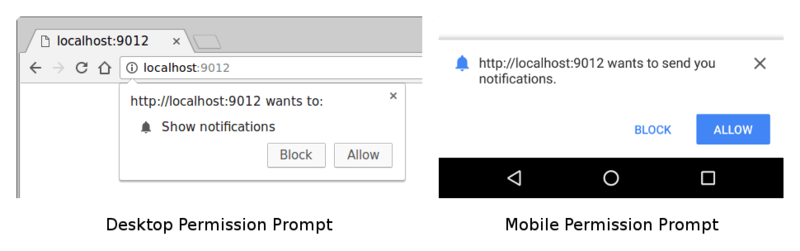
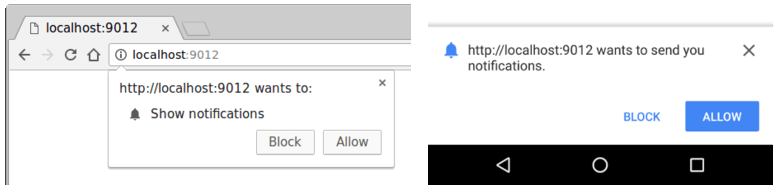
nowe grafiki

diff --git a/src/Presentation.tsx b/src/Presentation.tsx
@@ -1,15 +1,15 @@
 /* eslint-disable no-undef */
 import React, { useState } from 'react';
 import {
-  Code, Deck, Heading, Image, List, ListItem, Slide, Text, CodePane,
+  Code, Deck, Heading, Image, List, ListItem, Slide, Text,
 } from 'spectacle';
 // eslint-disable-next-line import/no-unresolved
 import createTheme from 'spectacle/lib/themes/default';
 
 const images = {
   cover: 'cover.jpg',
+  whatIsWebPush: 'what-is-web-push2.gif',
   permissionPrompt: 'permission-prompt.png',
-  whatIsWebPush: 'what-is-web-push.gif',
   isItFree: 'is-it-free.png',
   isItSafe: 'security.svg',
   action: 'action.png',
@@ -27,6 +27,8 @@ const images = {
   sendNotification3: 'send-notification3.svg',
   sendNotification4: 'send-notification4.svg',
   sendNotification5: 'send-notification5.svg',
+  heart: 'heart.png',
+  questions: 'questions.svg',
 };
 
 require('normalize.css');
@@ -81,13 +83,13 @@ export default function Presentation() {
           Czyli z czym się je powiadomienia WebPush
         </Text>
       </Slide>
-      <Slide bgColor="tertiary" textColor="tertiary" transition={['fade']}>
+      <Slide bgColor="primary" transition={['fade']}>
         <Heading caps size={1} textColor="secondary">
           What is Web Push?
         </Heading>
         <Image src={images.whatIsWebPush} width="100%" />
       </Slide>
-      <Slide bgColor="primary" textColor="tertiary" transition={['fade']}>
+      <Slide bgColor="primary" transition={['fade']}>
         <Heading caps size={3} textColor="secondary">
           What is Web Push?
         </Heading>
@@ -152,6 +154,26 @@ export default function Presentation() {
         <Image src={images.isItFree} width="400" />
       </Slide>
 
+      <Slide bgColor="tertiary" textColor="tertiary" transition={['fade']}>
+        <Heading caps size={1} textColor="secondary">
+          How it works?
+        </Heading>
+        <Image src={images.howItWorks} width="400" />
+      </Slide>
+      <Slide bgColor="primary" textColor="tertiary" transition={['fade']}>
+        <Heading caps size={3} textColor="secondary">
+          How it works?
+        </Heading>
+        <List>
+          <ListItem>
+            HTTP2
+          </ListItem>
+          <ListItem>
+            PUBLISHER/SUBSCRIBER MODEL
+          </ListItem>
+        </List>
+      </Slide>
+
       <Slide bgColor="primary" transition={['fade', 'zoom']}>
         <Heading caps size={1} textColor="secondary">
           See it in action
@@ -159,7 +181,7 @@ export default function Presentation() {
         <Image src={images.action} width="400" />
       </Slide>
 
-      <Slide bgColor="primary">
+      <Slide bgColor="tertiary">
         <Heading caps size={1} textColor="secondary">
           Permission first
         </Heading>
@@ -329,7 +351,7 @@ export default function Presentation() {
 
       <Slide bgColor="primary" transition={['fade']}>
         <Heading caps size={1} textColor="secondary">
-          When notification is send
+          When notification is send ...
         </Heading>
         <Image src={images.sendNotification1} width="100%" />
       </Slide>
@@ -360,13 +382,13 @@ export default function Presentation() {
 
       <Slide bgColor="primary" textColor="quaternary" transition={['fade']}>
         <Heading caps size={1} textColor="secondary">
-          Is it safe?
+          What about security?
         </Heading>
         <Image src={images.isItSafe} width="400" />
       </Slide>
-      <Slide bgColor="black" textColor="quaternary" transition={['fade']}>
-        <Heading caps size={3} textColor="tertiary">
-          Is it safe?
+      <Slide bgColor="primary" textColor="tertiary" transition={['fade']}>
+        <Heading caps size={3} textColor="secondary">
+          What about security?
         </Heading>
         <List>
           <ListItem>
@@ -374,26 +396,6 @@ export default function Presentation() {
           </ListItem>
           <ListItem>
             VAPID
-          </ListItem>
-        </List>
-      </Slide>
-
-      <Slide bgColor="tertiary" textColor="tertiary" transition={['fade']}>
-        <Heading caps size={1} textColor="secondary">
-          How it works?
-        </Heading>
-        <Image src={images.howItWorks} width="400" />
-      </Slide>
-      <Slide bgColor="primary" textColor="tertiary" transition={['fade']}>
-        <Heading caps size={3} textColor="secondary">
-          How it works?
-        </Heading>
-        <List>
-          <ListItem>
-            HTTP2
-          </ListItem>
-          <ListItem>
-            PUBLISHER/SUBSCRIBER MODEL
           </ListItem>
         </List>
       </Slide>
@@ -420,7 +422,7 @@ export default function Presentation() {
             Send spam
           </ListItem>
           <ListItem>
-            Too often notifications
+            Notify too often
           </ListItem>
         </List>
       </Slide>
@@ -430,12 +432,6 @@ export default function Presentation() {
           Want more? Try my Web Push Generator!
         </Heading>
         <a href="https://web-push-generator.herokuapp.com/">Try now!</a>
-      </Slide>
-
-      <Slide bgColor="black" textColor="quaternary" transition={['zoom', 'fade', 'slide']}>
-        <Heading caps size={1}>
-          Questions?
-        </Heading>
       </Slide>
 
       <Slide bgColor="primary" textColor="tertiary" transition={['fade']}>
@@ -462,57 +458,20 @@ export default function Presentation() {
           </ListItem>
         </List>
       </Slide>
+
+      <Slide transition={['zoom', 'fade', 'slide']}>
+        <Heading caps size={1} textColor="secondary">
+          Questions?
+        </Heading>
+        <Image src={images.questions} width="400" />
+      </Slide>
+
       <Slide bgColor="tertiary" textColor="tertiary" transition={['fade']}>
         <Heading caps size={1} textColor="secondary">
           Thank You!
         </Heading>
+        <Image src={images.heart} width="400" />
       </Slide>
-      {/* <Slide bgColor="tertiary" transition={['fade']}> */}
-      {/*  <Heading caps size={6} textColor="primary"> */}
-      {/*    Typography */}
-      {/*  </Heading> */}
-      {/*  <Heading size={1} textColor="secondary"> */}
-      {/*    Heading 1 */}
-      {/*  </Heading> */}
-      {/*  <Heading size={2} textColor="secondary"> */}
-      {/*    Heading 2 */}
-      {/*  </Heading> */}
-      {/*  <Heading size={3} textColor="secondary"> */}
-      {/*    Heading 3 */}
-      {/*  </Heading> */}
-      {/*  <Heading size={4} textColor="secondary"> */}
-      {/*    Heading 4 */}
-      {/*  </Heading> */}
-      {/*  <Heading size={5} textColor="secondary"> */}
-      {/*    Heading 5 */}
-      {/*  </Heading> */}
-      {/*  <Text */}
-      {/*    textColor="secondary" */}
-      {/*  > */}
-      {/*    Standard text */}
-      {/*  </Text> */}
-      {/* </Slide> */}
-      {/* <Slide bgColor="primary" textColor="tertiary" transition={['fade']}> */}
-      {/*  <Heading caps size={6} textColor="secondary"> */}
-      {/*    Standard List */}
-      {/*  </Heading> */}
-      {/*  <List> */}
-      {/*    <ListItem bulletStyle="star">Item 1</ListItem> */}
-      {/*    <ListItem bulletStyle="cross">Item 2</ListItem> */}
-      {/*    <ListItem>Item 3</ListItem> */}
-      {/*    <ListItem>Item 4</ListItem> */}
-      {/*  </List> */}
-      {/* </Slide> */}
-      {/* <Slide bgColor="secondary" textColor="primary" transition={['fade']}> */}
-      {/*  <BlockQuote> */}
-      {/*    <Quote>Example Quote</Quote> */}
-      {/*    <Cite margin="10px 0 0 30px">Author</Cite> */}
-      {/*  </BlockQuote> */}
-      {/* </Slide> */}
-      {/* <Slide> */}
-      {/*  <Image src={images.gif} width={500} /> */}
-      {/*  <Notes>gifs work too</Notes> */}
-      {/* </Slide> */}
     </Deck>
   );
 }
